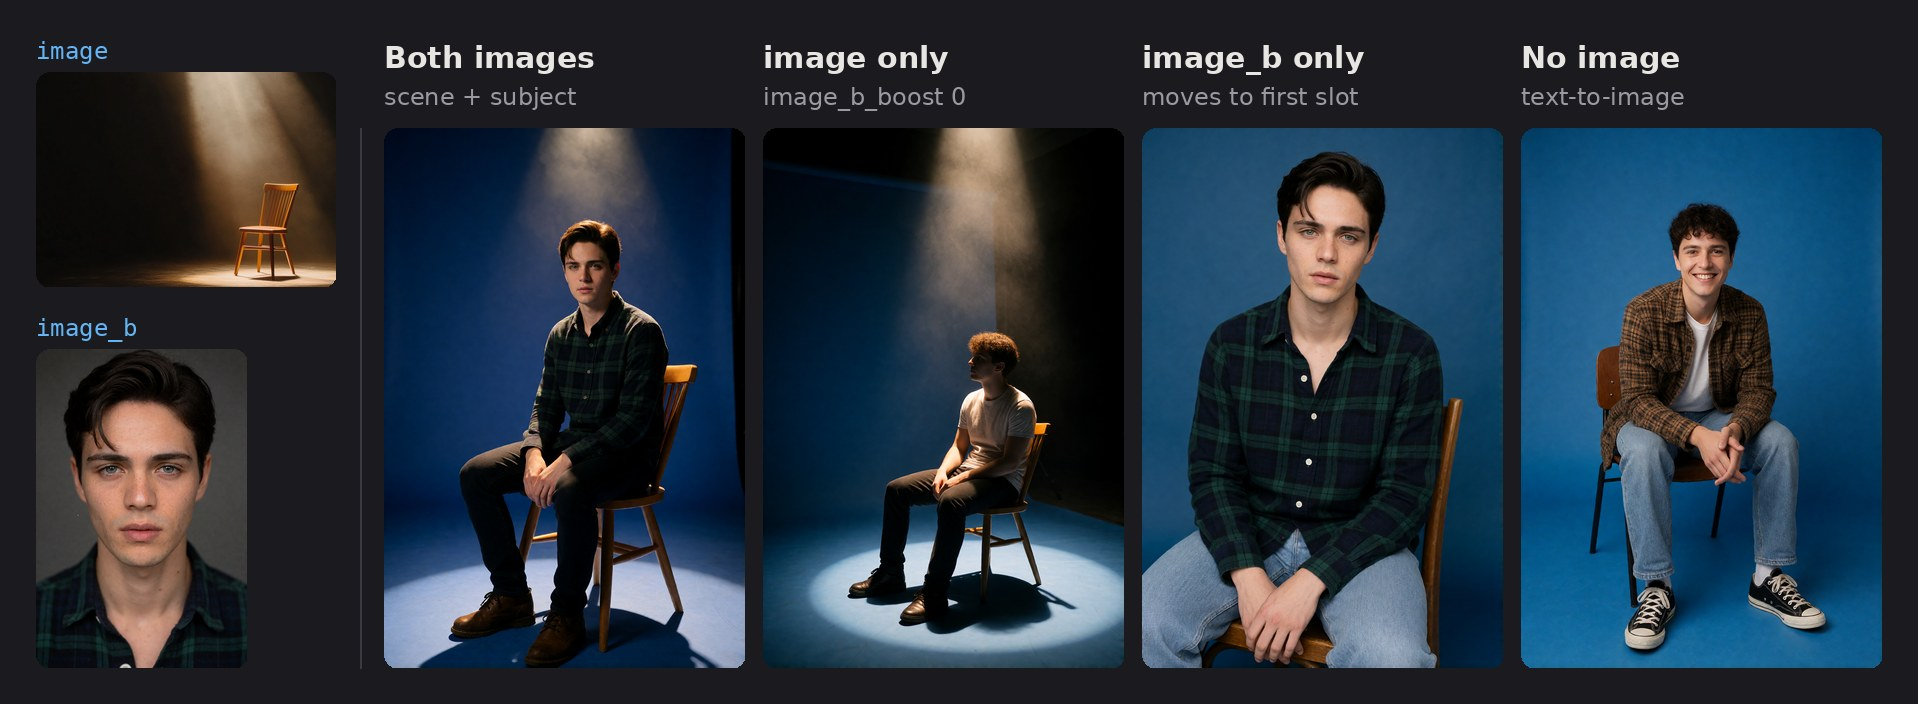
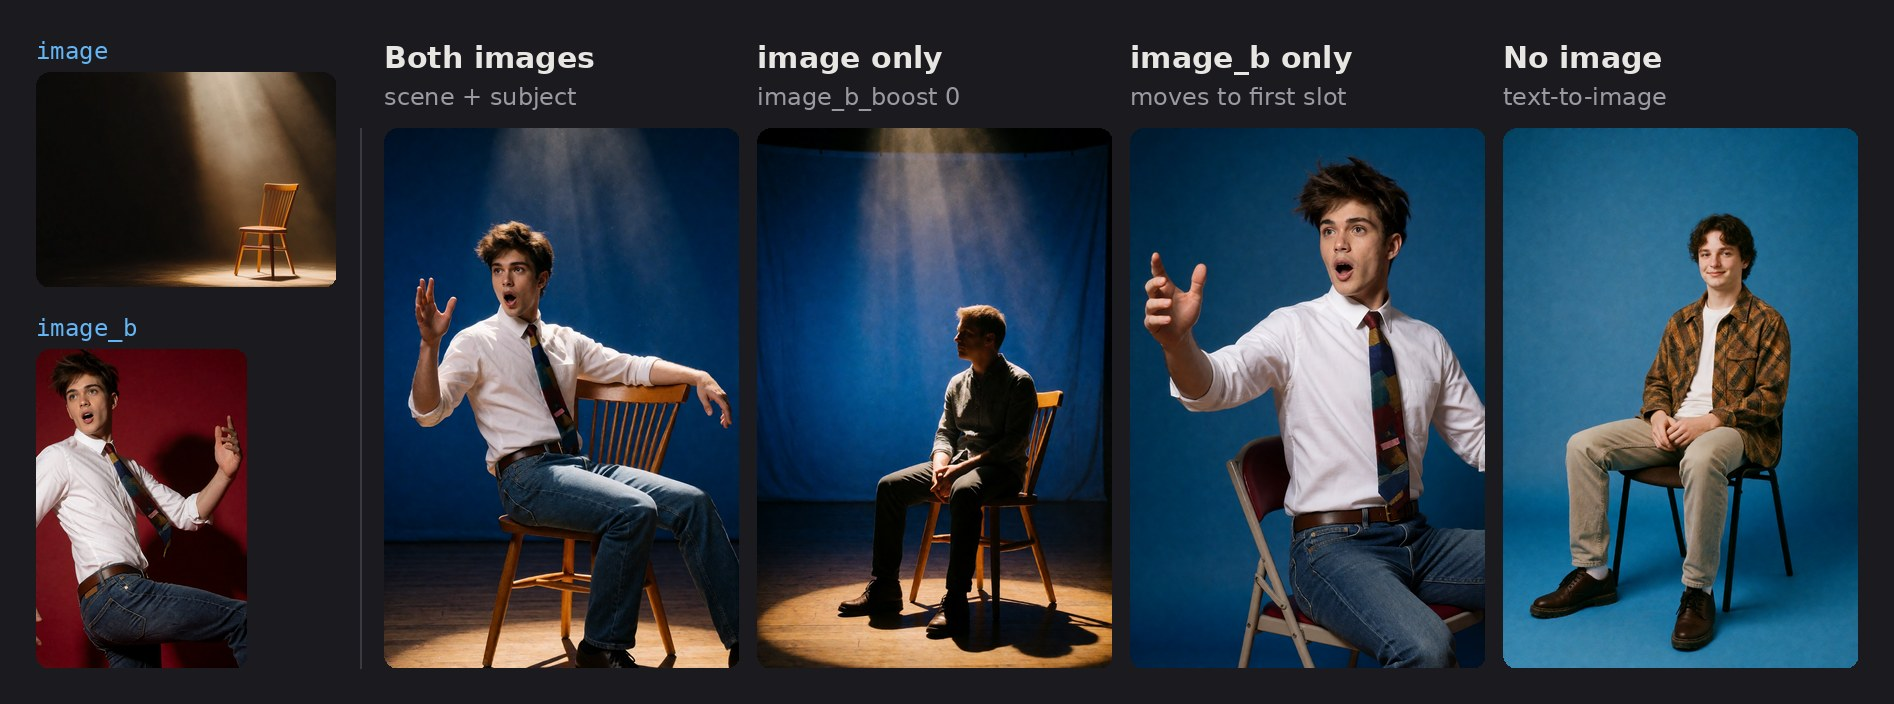
Support krea2edit 2.0 reference positions

diff --git a/__init__.py b/__init__.py
@@ -2,6 +2,7 @@ import nodes
 
 FIT_MODES = ["fit", "crop (legacy)"]
 NEGATIVE_MODES = ["zero (CFG 1)", "grounded (CFG > 1)"]
+POSITIONS = ["aligned (trained)", "beside (right of target)", "bag of features"]
 
 
 def krea2edit_node(name):
@@ -30,6 +31,11 @@ class Krea2EditPrep:
                                             "tooltip": "fidelity to image_b; 0 leaves image_b out"}),
                 "negative": (NEGATIVE_MODES, {"default": NEGATIVE_MODES[0],
                                               "tooltip": "grounded = empty prompt on the same images, the trained unconditional for CFG > 1"}),
+                "image_position": (POSITIONS, {"default": POSITIONS[0],
+                                               "tooltip": "aligned = pinned to the output layout; beside = identity without the layout pin, "
+                                                          "restages more freely; bag of features = experimental"}),
+                "image_b_position": (POSITIONS, {"default": POSITIONS[1],
+                                                 "tooltip": "beside keeps the person's identity without copying the photo's pose and lighting; needs a width that is a multiple of 16"}),
             },
             "optional": {
                 "image": ("IMAGE", {"tooltip": "scene, or the only reference"}),
@@ -49,13 +55,14 @@ class Krea2EditPrep:
                    "two = scene + subject. A boost of 0 leaves that image out.")
 
     def prep(self, model, clip, vae, latent, prompt, grounding_px, fit_mode, image_boost, image_b_boost,
-             negative, image=None, image_b=None, image_mask=None, image_b_mask=None):
+             negative, image_position, image_b_position,
+             image=None, image_b=None, image_mask=None, image_b_mask=None):
         # A boost of 0 leaves the image out. The Krea2 Edit nodes ignore the second slot without
         # the first, so a lone image moves up.
-        refs = [(ref, boost, mask) for ref, boost, mask in
-                ((image, image_boost, image_mask), (image_b, image_b_boost, image_b_mask))
+        refs = [(ref, boost, mask, position) for ref, boost, mask, position in
+                ((image, image_boost, image_mask, image_position), (image_b, image_b_boost, image_b_mask, image_b_position))
                 if ref is not None and boost > 0]
-        (first, first_boost, _), (second, second_boost, _) = (refs + [(None, 1.0, None)] * 2)[:2]
+        (first, first_boost, _, _), (second, second_boost, _, _) = (refs + [(None, 1.0, None, None)] * 2)[:2]
 
         encoder = krea2edit_node("Krea2EditGroundedEncode")
         positive = encoder.encode(clip, prompt, image=first, image_b=second, grounding_px=grounding_px)[0]
@@ -68,7 +75,7 @@ class Krea2EditPrep:
         if first is None:
             return (model, positive, negative)
 
-        # The patch's ref_boost applies to the last reference and ref_boost_a to the first of two.
+        # The patch's ref_boost and ref_position apply to the last reference, the _a inputs to the first of two.
         ref_boost, ref_boost_a = (second_boost, first_boost) if second is not None else (first_boost, 1.0)
         # The patch masks only the last reference's boost. Load Image's MASK is empty when nothing
         # is painted, which would cancel the boost, so an empty mask means the whole image.
@@ -79,7 +86,8 @@ class Krea2EditPrep:
         source = {"samples": latent["samples"][:1]}
         model = krea2edit_node("Krea2EditModelPatch").patch(
             model, source, vae=vae, source_image=first, source_image_b=second, target_latent=latent,
-            fit_mode=fit_mode, ref_boost=ref_boost, ref_boost_a=ref_boost_a, ref_boost_mask=mask)[0]
+            fit_mode=fit_mode, ref_boost=ref_boost, ref_boost_a=ref_boost_a, ref_boost_mask=mask,
+            ref_position=refs[-1][3], ref_position_a=refs[0][3])[0]
         return (model, positive, negative)
 
 

diff --git a/README.md b/README.md
@@ -4,16 +4,20 @@
 
 # GG Krea2
 
-**Krea2 Edit Prep (gg)** turns zero, one or two reference images into a ready `model`, `positive` and `negative` for a KSampler, for Krea 2 with the Krea 2 Identity Edit LoRA. It runs the Krea2 Edit nodes (grounded encode and source patch) internally, so you don't place them yourself.
+**Krea2 Edit Prep (gg)** turns zero, one or two reference images into a ready `model`, `positive` and `negative` for a KSampler, for Krea 2 with a Krea 2 Edit LoRA. It runs the Krea2 Edit nodes (grounded encode and source patch) internally, so you don't place them yourself.
 
-![The same scene and person through each route: both images put the person on the chair in the spotlit scene; image only keeps the scene with a generic person; image_b only keeps the person in a plain studio; no image gives a generic text-to-image result.](assets/readme/routes.jpg)
+![The same scene and person through each route: both images put the person on the chair under the scene's spotlight; image only keeps the scene with a generic person; image_b only keeps the person in a plain studio; no image gives a generic text-to-image result.](assets/readme/routes.jpg)
 
-*One prompt and seed for all four: "the person from the second image sitting on the chair in the first image, blue backdrop". Krea 2 Turbo, 9 steps, CFG 1.*
+*One prompt and seed for all four: "the person from the second image sitting on the chair in the first image, blue backdrop". Krea 2 Turbo with the Identity Edit V2 LoRA, 9 steps, CFG 1, euler / normal, 832 × 1264, default node settings.*
 
 ## Requirements
 
-- [comfyui-krea2edit](https://github.com/lbouaraba/comfyui-krea2edit) installed.
-- Krea 2 with the identity edit LoRA applied **before** this node, plus any other LoRAs you use.
+- [comfyui-krea2edit](https://github.com/lbouaraba/comfyui-krea2edit) 2.0.0 or newer (older versions ignore the position settings).
+- Krea 2 with one edit LoRA ([weights](https://huggingface.co/conradlocke/krea2-identity-edit)) applied **before** this node, plus any other LoRAs you use:
+  - `krea2_identity_edit_v2` to put a person from one photo into a scene, pose or outfit;
+  - `krea2_general_edit_v2` for instruction edits (remove, recolour, relight, backgrounds, objects, text).
+
+  Use one per task. Both at 1.0 break the image; about 0.6 each if you combine them.
 - The Krea 2 text encoder (Qwen3-VL) loaded with type `krea2`, as the Krea2 Edit nodes require.
 
 ## Install
@@ -29,7 +33,7 @@ Restart ComfyUI. The node is under **krea2edit** as **Krea2 Edit Prep (gg)**.
 
 ![A ComfyUI workflow: two Load Image nodes (scene and person) and an Empty Latent Image feed Krea2 Edit Prep along with the model, CLIP, VAE and prompt; its model, positive and negative go to a KSampler, which also takes the same latent, then VAE Decode and Preview Image.](assets/readme/wiring.png)
 
-- **Into the node:** `model` (Krea 2 + identity LoRA and any other LoRAs), `clip`, `vae`, `latent`, `prompt`, and optionally `image`, `image_b` and their masks.
+- **Into the node:** `model` (Krea 2 + edit LoRA and any other LoRAs), `clip`, `vae`, `latent`, `prompt`, and optionally `image`, `image_b` and their masks.
 - **Out to the KSampler:** `model`, `positive` and `negative`.
 
 Connect the same `latent` to the KSampler. Any batch size works. Seed, steps and sampler stay on the KSampler.
@@ -62,7 +66,7 @@ With two images, "the first image" in the prompt is `image` and "the second imag
 | Boost | Effect |
 | --- | --- |
 | 1.0 | Neutral (default). |
-| above 1 | Copies that image more closely. Start at 1.3–1.5; far above 2 it copies too literally (pasted-in lighting, stuck-on edges, duplicates). |
+| above 1 | Copies that image more closely. Start at 1.3–1.5; far above 2 it can copy too literally (pasted-in lighting, the reference's pose or backdrop, duplicates). |
 | below 1 | Copies it more loosely, so edits take hold more easily. |
 | 0 | Leaves that image out entirely. |
 
@@ -73,13 +77,31 @@ With two images, "the first image" in the prompt is `image` and "the second imag
 - With both images, only `image_b_mask` applies; the scene can't be masked. With one image, that image's own mask applies.
 - An empty mask (nothing painted) means the whole image, so leaving `MASK` connected is safe, unless the picture has transparency: Load Image then makes the transparent area the mask.
 
-At 1.0 the identity LoRA usually reproduces the face well already. When you need a stronger boost, a face mask keeps it on the face, so the rest of the reference (for example the pose) isn't copied too literally:
+At 1.0 the identity LoRA usually reproduces the face well already. When you need a stronger boost on an `aligned` image, a face mask keeps it on the face, so the rest of the photo isn't copied too literally (see the board below).
 
-![A reference photo of a man mid-dance with his face painted as the mask, then three results on the chair: boost 1.0 sits on the chair; boost 2.5 without a mask copies the dance pose; boost 2.5 with the face mask sits like the 1.0 result.](assets/readme/boost-mask.jpg)
+## Positions
 
-*Same scene, prompt and seed in all three. Only the boost and the mask change.*
+**A position sets whether the result keeps that image's layout.** Each image has its own; like the boosts, it follows the image, whichever slot it ends up in. `image` defaults to `aligned`, `image_b` to `beside`.
+
+| Position | Effect |
+| --- | --- |
+| aligned (trained) | Pinned to the output layout, as the LoRAs were trained. |
+| beside (right of target) | Placed next to the canvas: the identity still comes through, but the layout pin is gone, so the person can be restaged more freely. |
+| bag of features | Experimental: the image's content without its layout. |
+
+Keep the scene `aligned` so its layout and lighting carry over. For the person, `beside` keeps the likeness without copying the photo's pose and lighting, even at boost 2.5; on `aligned` the V2 identity LoRA tends to copy both. For a single-image edit that should keep the picture's layout, use `image` (aligned).
+
+![A reference photo of a man mid-dance with his face painted as the mask, then four results on the chair: aligned at 1.0 copies the dance pose and the photo's hard wall shadow; aligned at 2.5 copies even more; aligned at 2.5 with the face mask looks like the 1.0 result; beside at 1.0 sits naturally under the scene's spotlight.](assets/readme/positions.jpg)
+
+*Same scene, prompt, seed and sampler in all four; `image` stays aligned at 1.0. Only `image_b`'s position, boost and mask change.*
+
+With `beside`, use an output width that is a multiple of 16 (for example 832 × 1264). Other widths get a streak of noise along the right edge ([krea2edit#35](https://github.com/lbouaraba/comfyui-krea2edit/issues/35)).
 
 ## Recipes
+
+**Put the person from one photo into a scene**
+1. `image` = the scene; `image_b` = the person. Leave the positions at their defaults (scene aligned, person beside).
+2. Prompt: *The man from the second image sitting on the chair in the first image.*
 
 **Put the face from one photo onto the person in another**
 1. `image` = the photo with the body, pose, clothes and background to keep.
